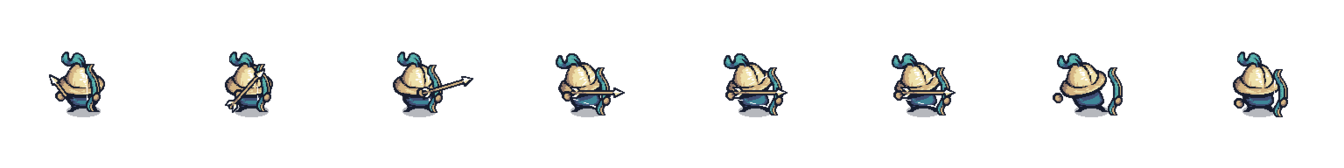
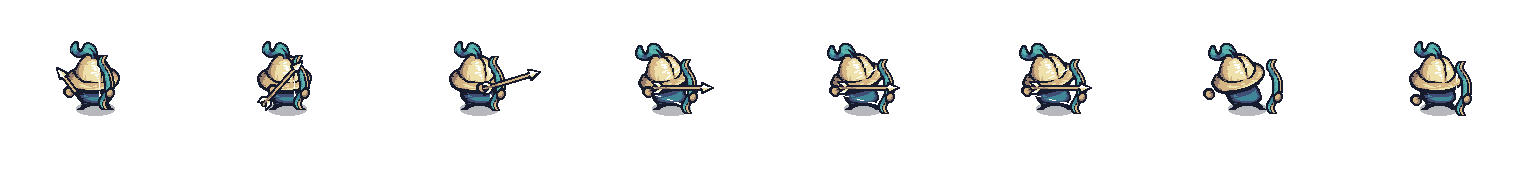
update

diff --git a/game.py b/game.py
@@ -116,16 +116,12 @@ class Game:
         self.textFont = pg.font.SysFont("consolas", 24)
 
         # Create buttons
-        self.archerButton = Button(
-            c.SCREEN_WIDTH - 20, 20, self.archerButtonImage, True
-        )
-        self.knightButton = Button(
-            c.SCREEN_WIDTH + 40, 20, self.knightButtonImage, True
-        )
-        self.cancelButton = Button(
-            c.SCREEN_WIDTH + 50, 240, self.cancelButtonImage, True
-        )
-        self.nextRoundButton = Button(c.SCREEN_WIDTH + 50, 280, self.nextRoundButtonImage, True)
+        self.archerButton = Button(c.SCREEN_WIDTH + 5, 70, self.archerButtonImage, True)
+        self.knightButton = Button(c.SCREEN_WIDTH + 105, 70, self.knightButtonImage, True)
+        self.fighterButton = Button(c.SCREEN_WIDTH + 205, 70, self.fighterButtonImage, True)
+        self.cancelButton = Button(c.SCREEN_WIDTH + 15, 750, self.cancelButtonImage, True)
+        self.nextRoundButton = Button(c.SCREEN_WIDTH -80, 750, self.nextRoundButtonImage, True)
+        self.sellButton = Button(c.SCREEN_WIDTH + 15, 750, self.sellButtonImage, True)
 
         # Initialize resources
         self.gold = 100
@@ -175,12 +171,13 @@ class Game:
         self.turretSheets = {
             "archer": pg.image.load("assets/archer/archer_shoot.png").convert_alpha(),
             "knight": pg.image.load("assets/knight/knight_swing.png").convert_alpha(),
-
+            "fighter": pg.image.load("assets/fighter/fighter_swing.png").convert_alpha(),
         }
 
         self.turretStatics = {
             "archer": pg.image.load("assets/archer/archer_static.png").convert_alpha(),
             "knight": pg.image.load("assets/knight/knight_static.png").convert_alpha(),
+            "fighter": pg.image.load("assets/fighter/fighter_static.png").convert_alpha(),
         }
         
         # Enemy spritesheets
@@ -193,18 +190,17 @@ class Game:
         }
 
         # Buttons
-        self.archerButtonImage = pg.image.load(
-            "assets/archer/archer_static.png"
-        ).convert_alpha()
-        self.knightButtonImage = pg.image.load(
-            "assets/knight/knight_static.png"
-        ).convert_alpha()
-        self.cancelButtonImage = pg.image.load(
-            "assets/buttons/cancel.png"
-        ).convert_alpha()
-        self.nextRoundButtonImage = pg.image.load(
-            "assets/buttons/debug.png"
-        ).convert_alpha()
+        # Turret buttons
+        self.archerButtonImage= pg.image.load("assets/protectors/archer1.png").convert_alpha()
+        self.archerButtonImageFaded = pg.image.load("assets/protectors/archer2.png").convert_alpha()
+        self.knightButtonImage = pg.image.load("assets/protectors/knight1.png").convert_alpha()
+        self.knightButtonImageFaded = pg.image.load("assets/protectors/knight2.png").convert_alpha()
+        self.fighterButtonImage = pg.image.load("assets/protectors/fighter1.png").convert_alpha()
+        self.fighterButtonImageFaded = pg.image.load("assets/protectors/fighter2.png").convert_alpha()
+
+        self.cancelButtonImage = pg.image.load("assets/buttons/cancel_icon.png").convert_alpha()
+        self.nextRoundButtonImage = pg.image.load("assets/buttons/play.png").convert_alpha()
+        self.sellButtonImage = pg.image.load("assets/buttons/sell.png").convert_alpha()
 
     def create_turret(self, mouse_pos):
         mouse_tile_x = mouse_pos[0] // c.TILE_SIZE
@@ -288,13 +284,26 @@ class Game:
             if self.archerButton.draw(self.screen):
                 self.placingTurrets = True
                 self.turretType = "archer"
-            
-            # Enter turret placement mode
             if self.knightButton.draw(self.screen):
                 self.placingTurrets = True
                 self.turretType = "knight"
+            if self.fighterButton.draw(self.screen):
+                self.placingTurrets = True
+                self.turretType = "fighter"
+            
 
-            self.drawText(f"Gold: {self.gold}", self.textFont, "black", c.SCREEN_WIDTH + 30, 30)
+            self.drawText(f"Gold: {self.gold}", self.textFont, "black", 30, 30)
+
+            for enemy in self.enemyGroup:
+                pg.draw.rect(enemy.image, (255, 0, 0), (enemy.pos[0], enemy.pos[1], 50, 5))
+                pg.draw.rect(enemy.image, (0, 255, 0), (enemy.pos[0], enemy.pos[1], 50 * (enemy.hp / enemy.maxHp), 5))
+
+            # Sell button should only be visible when a turret is selected
+            if self.selected_turret:
+                if self.sellButton.draw(self.screen):
+                    self.turretGroup.remove(self.selected_turret)
+                    self.gold += self.selected_turret.cost // 2
+                    self.selected_turret = None
 
             # If placing turrets then show the cancel button as well
             if self.placingTurrets:
@@ -302,8 +311,10 @@ class Game:
                 cursor_rect = self.turretStatics[self.turretType].get_rect()
                 cursor_pos = pg.mouse.get_pos()
                 cursor_rect.center = cursor_pos
+
                 if cursor_pos[0] <= c.SCREEN_WIDTH:
                     self.screen.blit(self.turretStatics[self.turretType], cursor_rect)
+
                 # Exit placement mode if cancel button is pressed
                 if self.cancelButton.draw(self.screen):
                     self.placingTurrets = False

diff --git a/src/interface/turret.py b/src/interface/turret.py
@@ -25,7 +25,7 @@ class Turret(pg.sprite.Sprite):
         # animation variables
         self.sprite_sheet = spriteSheets[type]
         self.animation_list = self.load_images()
-        self.frame_index = 0
+        self.frame_index = len(self.animation_list) - 1
         self.update_time = pg.time.get_ticks()
 
         # update image
@@ -75,9 +75,9 @@ class Turret(pg.sprite.Sprite):
             y_dist = enemy.pos[1] - self.y
             dist = math.sqrt(x_dist**2 + y_dist**2)
             if dist < self.range:
-                heapq.heappush(inRange, (dist, enemy))
-        self.closest = heapq.heappop(inRange)[1]
-        self.target = self.closest
+                inRange.append((dist, enemy))
+        if inRange:
+            self.target = sorted(inRange, key=lambda x: x[0])[0][1]
 
     def play_animation(self):
         # update image
@@ -89,6 +89,7 @@ class Turret(pg.sprite.Sprite):
         # check if the animation has finished and reset to idle
         if self.frame_index >= len(self.animation_list):
             self.frame_index = 0
+            
             # record completed time and clear target so cooldown can begin
             self.last_shot = pg.time.get_ticks()
             if self.target:

diff --git a/src/notInterface/enemy.py b/src/notInterface/enemy.py
@@ -8,6 +8,7 @@ class Enemy(pg.sprite.Sprite):
         pg.sprite.Sprite.__init__(self)
 
         # Health
+        self.maxHp = ENEMY_DATA[type]["hp"]
         self.hp = ENEMY_DATA[type]["hp"]
         self.speed = ENEMY_DATA[type]["speed"]
         

diff --git a/src/gameData.py b/src/gameData.py
@@ -100,6 +100,7 @@ TOWER_DATA = {
         "damage": 3,
         "range": 3,
         "cooldown": 300,
-        "cost": 30
+        "cost": 30,
+        "animation_steps": 6
     }
 }
